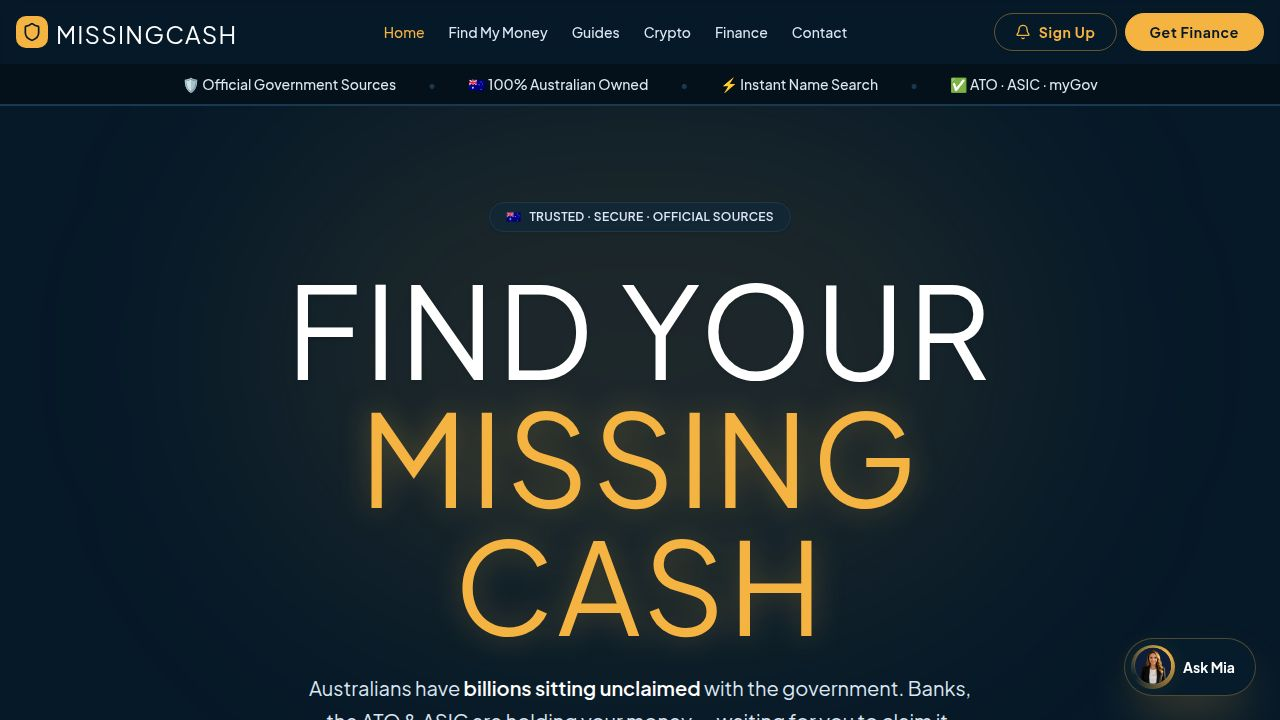
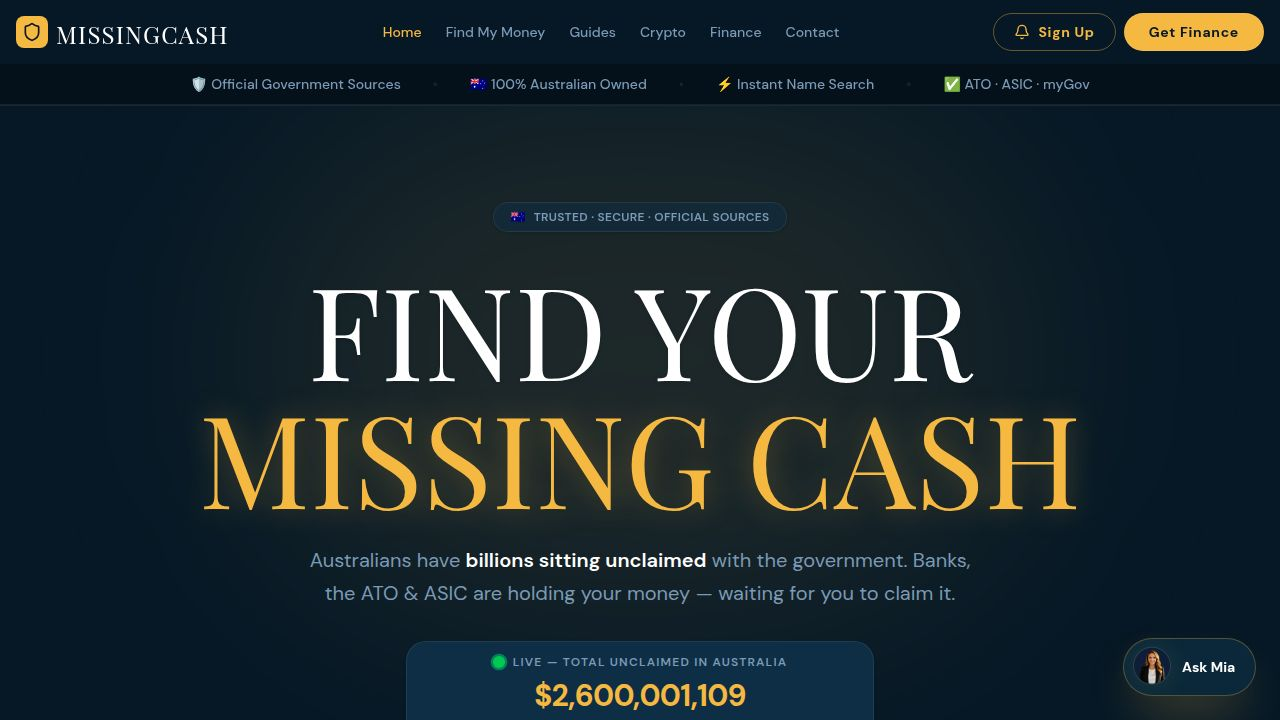
Add spoken responses and voice control for Mia's chat interactions
Integrate ElevenLabs TTS for Mia's voice, remove unused routes, and enhance the chat component with voice playback and control, ensuring proper cleanup and state management.

Replit-Commit-Author: Agent
Replit-Commit-Session-Id: 826f48f5-a842-46a0-bdf7-ed06c2bd6792
Replit-Commit-Checkpoint-Type: full_checkpoint
Replit-Commit-Event-Id: a099aad0-5819-45c2-a54e-cbb88326036e
Replit-Commit-Screenshot-Url: https://storage.googleapis.com/screenshot-production-us-central1/d2c17132-279e-4c62-a827-c3c79ae46ec2/826f48f5-a842-46a0-bdf7-ed06c2bd6792/7Rs0CpO
Replit-Helium-Checkpoint-Created: true

diff --git a/artifacts/missingcash/src/components/MiaChat.tsx b/artifacts/missingcash/src/components/MiaChat.tsx
@@ -1,6 +1,6 @@
 import { useState, useRef, useEffect, useCallback } from "react";
 import { motion, AnimatePresence } from "framer-motion";
-import { X, Send, Volume2 } from "lucide-react";
+import { X, Send, Volume2, VolumeX } from "lucide-react";
 
 interface Message {
   id: string;
@@ -44,6 +44,15 @@ function renderMessage(content: string) {
       );
     return <span key={i}>{part}</span>;
   });
+}
+
+function stripForSpeech(content: string): string {
+  return content
+    .replace(/\*\*([^*]+)\*\*/g, "$1")
+    .replace(/\[(.+?)\]\((https?:\/\/.+?)\)/g, "$1")
+    .replace(/https?:\/\/\S+/g, "")
+    .replace(/\s+/g, " ")
+    .trim();
 }
 
 function MiaAvatar({ size, active, showStatus = false }: { size: number; active: boolean; showStatus?: boolean }) {
@@ -174,6 +183,15 @@ export default function MiaChat() {
   const [streaming, setStreaming] = useState(false);
   const [unread, setUnread] = useState(false);
   const [videoOk, setVideoOk] = useState(true);
+  const [voiceOn, setVoiceOn] = useState<boolean>(() => {
+    if (typeof window === "undefined") return true;
+    try { return localStorage.getItem("mia-voice") !== "off"; } catch { return true; }
+  });
+  const [speaking, setSpeaking] = useState(false);
+  const audioRef = useRef<HTMLAudioElement | null>(null);
+  const audioUrlRef = useRef<string | null>(null);
+  const speechIdRef = useRef(0);
+  const voiceOnRef = useRef(voiceOn);
 
   const messagesEndRef = useRef<HTMLDivElement>(null);
   const inputRef = useRef<HTMLInputElement>(null);
@@ -187,7 +205,86 @@ export default function MiaChat() {
     if (open) setTimeout(() => inputRef.current?.focus(), 100);
   }, [open]);
 
+  useEffect(() => {
+    voiceOnRef.current = voiceOn;
+    try { localStorage.setItem("mia-voice", voiceOn ? "on" : "off"); } catch { /* ignore */ }
+  }, [voiceOn]);
+
+  useEffect(() => () => {
+    speechIdRef.current += 1;
+    audioRef.current?.pause();
+    if (audioUrlRef.current) URL.revokeObjectURL(audioUrlRef.current);
+  }, []);
+
   const handleVideoUnavailable = useCallback(() => setVideoOk(false), []);
+
+  const stopSpeaking = useCallback(() => {
+    speechIdRef.current += 1;
+    const audio = audioRef.current;
+    if (audio) {
+      audio.onended = null;
+      audio.onerror = null;
+      audio.pause();
+    }
+    audioRef.current = null;
+    if (audioUrlRef.current) {
+      URL.revokeObjectURL(audioUrlRef.current);
+      audioUrlRef.current = null;
+    }
+    setSpeaking(false);
+  }, []);
+
+  const speak = useCallback(async (text: string) => {
+    const clean = stripForSpeech(text);
+    if (!clean) return;
+
+    const myId = ++speechIdRef.current;
+
+    const prev = audioRef.current;
+    if (prev) {
+      prev.onended = null;
+      prev.onerror = null;
+      prev.pause();
+    }
+    audioRef.current = null;
+    if (audioUrlRef.current) {
+      URL.revokeObjectURL(audioUrlRef.current);
+      audioUrlRef.current = null;
+    }
+
+    try {
+      const res = await fetch(`${BASE}/api/mia/tts`, {
+        method: "POST",
+        headers: { "Content-Type": "application/json" },
+        body: JSON.stringify({ text: clean.slice(0, 5000) }),
+      });
+      if (myId !== speechIdRef.current) return;
+      if (!res.ok) return;
+      const blob = await res.blob();
+      if (myId !== speechIdRef.current) return;
+
+      const url = URL.createObjectURL(blob);
+      const audio = new Audio(url);
+      audioRef.current = audio;
+      audioUrlRef.current = url;
+      setSpeaking(true);
+
+      const cleanup = () => {
+        if (audioUrlRef.current === url) {
+          URL.revokeObjectURL(url);
+          audioUrlRef.current = null;
+        }
+        if (audioRef.current === audio) audioRef.current = null;
+        if (myId === speechIdRef.current) setSpeaking(false);
+      };
+      audio.onended = cleanup;
+      audio.onerror = cleanup;
+      await audio.play().catch(cleanup);
+    } catch {
+      if (myId === speechIdRef.current) setSpeaking(false);
+    }
+  }, []);
+
   const sendMessageRef = useRef<((text?: string) => void) | null>(null);
 
   const sendMessage = useCallback(
@@ -206,6 +303,7 @@ export default function MiaChat() {
 
       const controller = new AbortController();
       abortRef.current = controller;
+      let fullText = "";
 
       try {
         const res = await fetch(`${BASE}/api/mia/chat`, {
@@ -234,6 +332,7 @@ export default function MiaChat() {
             try {
               const payload = JSON.parse(line.slice(6)) as { content?: string; done?: boolean; error?: string };
               if (payload.content) {
+                fullText += payload.content;
                 setMessages((prev) =>
                   prev.map((m) => (m.id === assistantId ? { ...m, content: m.content + payload.content } : m)),
                 );
@@ -249,6 +348,8 @@ export default function MiaChat() {
             } catch { /* ignore partial JSON */ }
           }
         }
+
+        if (voiceOnRef.current && fullText.trim()) void speak(fullText);
       } catch (err) {
         if ((err as Error).name !== "AbortError") {
           setMessages((prev) =>
@@ -265,7 +366,7 @@ export default function MiaChat() {
         if (!open) setUnread(true);
       }
     },
-    [input, streaming, messages, open],
+    [input, streaming, messages, open, speak],
   );
 
   useEffect(() => { sendMessageRef.current = sendMessage; }, [sendMessage]);
@@ -326,15 +427,29 @@ export default function MiaChat() {
             className="fixed bottom-6 right-6 z-50 w-[380px] max-w-[calc(100vw-24px)] flex flex-col rounded-2xl overflow-hidden shadow-2xl shadow-black/60 border border-border bg-card"
           >
             <div className="flex items-center gap-3 px-4 py-3 bg-secondary border-b border-border shrink-0">
-              <MiaAvatar size={40} active={streaming} showStatus />
+              <MiaAvatar size={40} active={streaming || speaking} showStatus />
               <div className="flex-1 min-w-0">
                 <p className="text-sm font-bold text-white">Mia</p>
                 <p className="text-[11px] text-primary">
-                  {streaming ? "typing…" : "MissingCash assistant"}
+                  {streaming ? "typing…" : speaking ? "speaking…" : "MissingCash assistant"}
                 </p>
               </div>
               <button
-                onClick={() => setOpen(false)}
+                onClick={() =>
+                  setVoiceOn((v) => {
+                    const next = !v;
+                    if (!next) stopSpeaking();
+                    return next;
+                  })
+                }
+                className="text-muted-foreground hover:text-white transition-colors p-1 rounded-lg hover:bg-white/10"
+                aria-label={voiceOn ? "Turn Mia's voice off" : "Turn Mia's voice on"}
+                title={voiceOn ? "Mia's voice: on" : "Mia's voice: off"}
+              >
+                {voiceOn ? <Volume2 size={18} /> : <VolumeX size={18} />}
+              </button>
+              <button
+                onClick={() => { stopSpeaking(); setOpen(false); }}
                 className="text-muted-foreground hover:text-white transition-colors p-1 rounded-lg hover:bg-white/10"
                 aria-label="Close chat"
               >

diff --git a/artifacts/api-server/src/routes/mia-tts.ts b/artifacts/api-server/src/routes/mia-tts.ts
@@ -80,24 +80,4 @@ router.post("/mia/tts", rateLimit, async (req, res): Promise<void> => {
   }
 });
 
-router.get("/mia/voices", async (req, res): Promise<void> => {
-  const apiKey = process.env.ELEVENLABS_API_KEY;
-  if (!apiKey) {
-    res.status(503).json({ error: "Voice is not configured." });
-    return;
-  }
-  try {
-    const upstream = await fetch("https://api.elevenlabs.io/v1/voices", {
-      headers: { "xi-api-key": apiKey },
-    });
-    const json = (await upstream.json()) as { voices?: { voice_id: string; name: string; category: string }[] };
-    res.json(
-      (json.voices ?? []).map((v) => ({ id: v.voice_id, name: v.name, category: v.category })),
-    );
-  } catch (err) {
-    req.log.error({ err }, "Mia voices listing errored");
-    res.status(502).json({ error: "Could not list voices." });
-  }
-});
-
 export default router;

diff --git a/.agents/memory/mia-voice-avatar.md b/.agents/memory/mia-voice-avatar.md
@@ -1,0 +1,27 @@
+---
+name: Mia voice & avatar (ElevenLabs / HeyGen)
+description: How Mia's voice is wired, which voice ID is hers, and the openai/secrets gotchas around it
+---
+
+# Mia voice (ElevenLabs) & avatar (HeyGen)
+
+## Which voice is Mia's
+- Mia's real voice is the ElevenLabs voice **literally named "Mia"** (category `generated`, id `x3PfG9wL6FOEApZ1VJ9H`). Do not guess a premade voice.
+- Discover voices via the ElevenLabs `GET /v1/voices` API (use the `xi-api-key` header). Don't keep a debug route for this in the server — list it ad hoc, pick the id, then remove the route.
+- The id in `replit.md` under HeyGen (`05f1da4dc12744c087dace9e0651a6e0`) is a **HeyGen** id, NOT an ElevenLabs voice id. Don't confuse them.
+- **Why:** the project gives both a HeyGen and an ElevenLabs key; it's easy to grab the wrong id and ship the wrong voice.
+- **How to apply:** voice IDs are not secret — store as `ELEVENLABS_VOICE_ID` env (shared), keep `ELEVENLABS_API_KEY` as the secret. TTS uses model `eleven_turbo_v2_5`.
+
+## openai package must stay installed
+- `artifacts/api-server/src/routes/mia.ts` calls `await import("openai")` (dynamic) only when `OPENAI_API_KEY` is set; without the key Mia streams a knowledge fallback and the import never runs.
+- Even though it's a dynamic import behind a runtime gate, the `openai` package must remain a dependency or `pnpm --filter @workspace/api-server run typecheck` fails with TS2307.
+- **Why:** the runtime works fine without the package (fallback path), so it's tempting to think it's unused — but typecheck/build still resolves the import type.
+
+## Newly-added secrets visibility
+- A secret added during the session is visible only to **running workflows**, not to ad-hoc `bash` or the `code_execution` sandbox (`process.env` is empty there).
+- **How to apply:** to exercise a new key, hit the running api-server through the `localhost:80` proxy (e.g. `curl`), never read the key in a shell. Restart workflows after adding secrets so they pick them up.
+
+## Frontend playback (MiaChat.tsx)
+- After a streamed chat reply completes, the client POSTs the cleaned text to `/api/mia/tts` and plays the returned blob via `Audio()`.
+- Playback is guarded by a monotonic `speechIdRef` token so stale in-flight requests (mute / close / unmount / rapid re-send) can't start playing; object URLs are revoked on every stop/replace/cleanup path to avoid leaks.
+- Voice on/off is a header toggle persisted to `localStorage` ("mia-voice"); the latest value is read via a ref inside `sendMessage` so toggling mid-stream is respected.

diff --git a/replit.md b/replit.md
@@ -28,7 +28,8 @@ An Australian unclaimed-money search service: helps people find money held by th
   - SEO: `src/hooks/use-page-seo.ts` — sets title/description/keywords/OG/Twitter meta per page
   - Theme: navy `#061826` background, gold `#f5b942` primary — defined in `src/index.css` via `@theme`
 - API (Express 5, routed at `/api` via shared proxy): `artifacts/api-server/`
-  - Mia chat route needed: `POST /api/mia/chat` (streaming SSE)
+  - Mia chat route: `POST /api/mia/chat` (streaming SSE) — built
+  - Mia voice route: `POST /api/mia/tts` (ElevenLabs TTS → audio/mpeg) — built
   - Email alerts route needed: `POST /api/alerts/subscribe`
   - Finance enquiry route needed: `POST /api/finance/enquiry`
 - Static assets (PDFs, videos, images): `artifacts/missingcash/public/`
@@ -59,7 +60,9 @@ _Populate as you build — explicit user instructions worth remembering across s
 
 ## Integrations
 
-- **HeyGen** — Mia's voice ID: `05f1da4dc12744c087dace9e0651a6e0`
+- **ElevenLabs** — Mia's voice. Her cloned voice is the one literally named "Mia" (category `generated`, id `x3PfG9wL6FOEApZ1VJ9H`), set as `ELEVENLABS_VOICE_ID` (voice IDs are not secret; `ELEVENLABS_API_KEY` is the secret). TTS route: `POST /api/mia/tts` ({text}) → `audio/mpeg`, model `eleven_turbo_v2_5`. Frontend plays it after each Mia reply, with a voice on/off toggle in the chat header (persisted to localStorage).
+- **HeyGen** — avatar id `05f1da4dc12744c087dace9e0651a6e0` (this is a HeyGen id, NOT an ElevenLabs voice id). Talking-avatar integration not yet wired.
+- **OpenAI** — `mia.ts` uses `gpt-4o-mini` via a dynamic `import("openai")` when `OPENAI_API_KEY` is set; otherwise Mia streams the knowledge fallback. The `openai` package must stay installed — api-server typecheck breaks without it even though the import is dynamic.
 
 ## Gotchas
 

diff --git a/.agents/memory/MEMORY.md b/.agents/memory/MEMORY.md
@@ -1,1 +1,3 @@
-- [MissingCash React conversion](missingcash-react.md) — converted from static Node/HTML to React/Vite; Finance.tsx was truncated in upload, reconstructed manually.
+# Memory Index
+
+- [Mia voice & avatar](mia-voice-avatar.md) — Mia's ElevenLabs voice is the one named "Mia" (id x3PfG9wL6FOEApZ1VJ9H); openai pkg must stay installed; new secrets only reach running workflows.